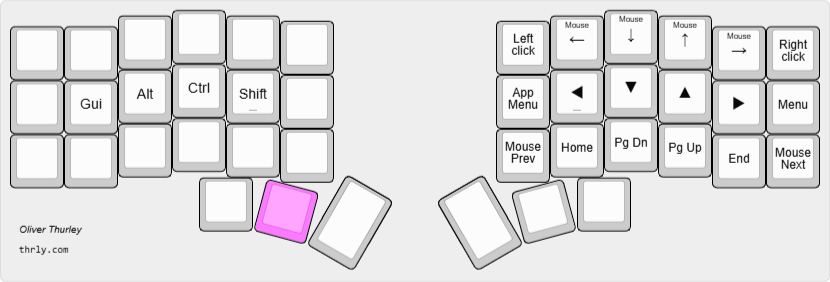
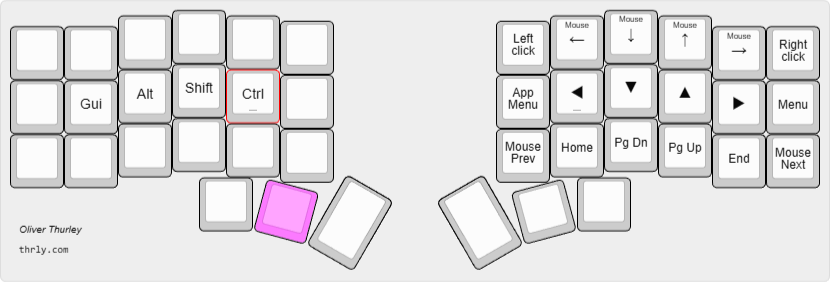
Update HRM on keymap images
fix error on nav keymap image

Update HRM on keymap images

Changed region(s): [[0.2108, 0.2837, 0.3313, 0.3688], [0.2711, 0.4255, 0.3313, 0.4539], [0.2711, 0.227, 0.3313, 0.2553]]

diff --git a/README.md b/README.md
@@ -1,6 +1,6 @@
 # thrly's ZMK configuration
 
-> This config is for a 6-col corne (wireless version from [Typeractive](https://typeractive.xyz/)), but I'm gradually trying to wittle it down to a smaller 36-key 5-col...
+> This config is for a 6-col corne (wireless version from [Typeractive](https://typeractive.xyz/)), but I'm gradually trying to wittle it down to a smaller custom 36-key 5-col that I'm designing myself...
 
 For more explanations and reflections on this customization, see [my blog post](https://thrly.com/blog/thoughts-on-customising-a-split-keyboard-layout/) on this keymap.
 
@@ -15,15 +15,13 @@ For more explanations and reflections on this customization, see [my blog post](
 - Horizontal Num layer
 - Thumb keys transparent on layers (for `Ctrl` and `Shift`)
 - Combos:
-  - volume (outer right top + middle / middle + bottom)
+  - volume up / down (outer right top + middle / middle + bottom)
   - caps word / caps lock (`G`+`J` / `T`+`Y`)
   - escape (`Q`+`W`)
   - delete (`O`+`P`)
 - double-tap `>` for `=>` arrow
 
 ## Layers
-
-Note that in the current keymap diagrams, the homerow mods (Gui-Alt-Shf-Ctl) are not currently shown.
 
 ### Base layer
 
@@ -36,16 +34,18 @@ Note that in the current keymap diagrams, the homerow mods (Gui-Alt-Shf-Ctl) are
 ### Nav layer
 
 ![Nav keymap diagram](./img/corne-nav-layer.png)
-.
+
 ### Num layer
 
 ![Num keymap diagram](./img/corne-num-layer.png)
 
 ## Dependencies
 
-https://github.com/M165437/nice-view-gem
-~https://github.com/urob/zmk-helpers~ (temporarily depreciated)
-~https://github.com/urob/zmk-config~ (temporarily depreciated)
+- https://github.com/M165437/nice-view-gem
+- ~https://github.com/urob/zmk-helpers~ (temporarily depreciated)
+- ~https://github.com/urob/zmk-config~ (temporarily depreciated)
+
+(I was having a few build errors while trying to use urob's elements so I've moved to the ZMK docs' 'balanced' HRM implementation until I fix it, and I've been happy with this.)
 
 ## Notes
 
